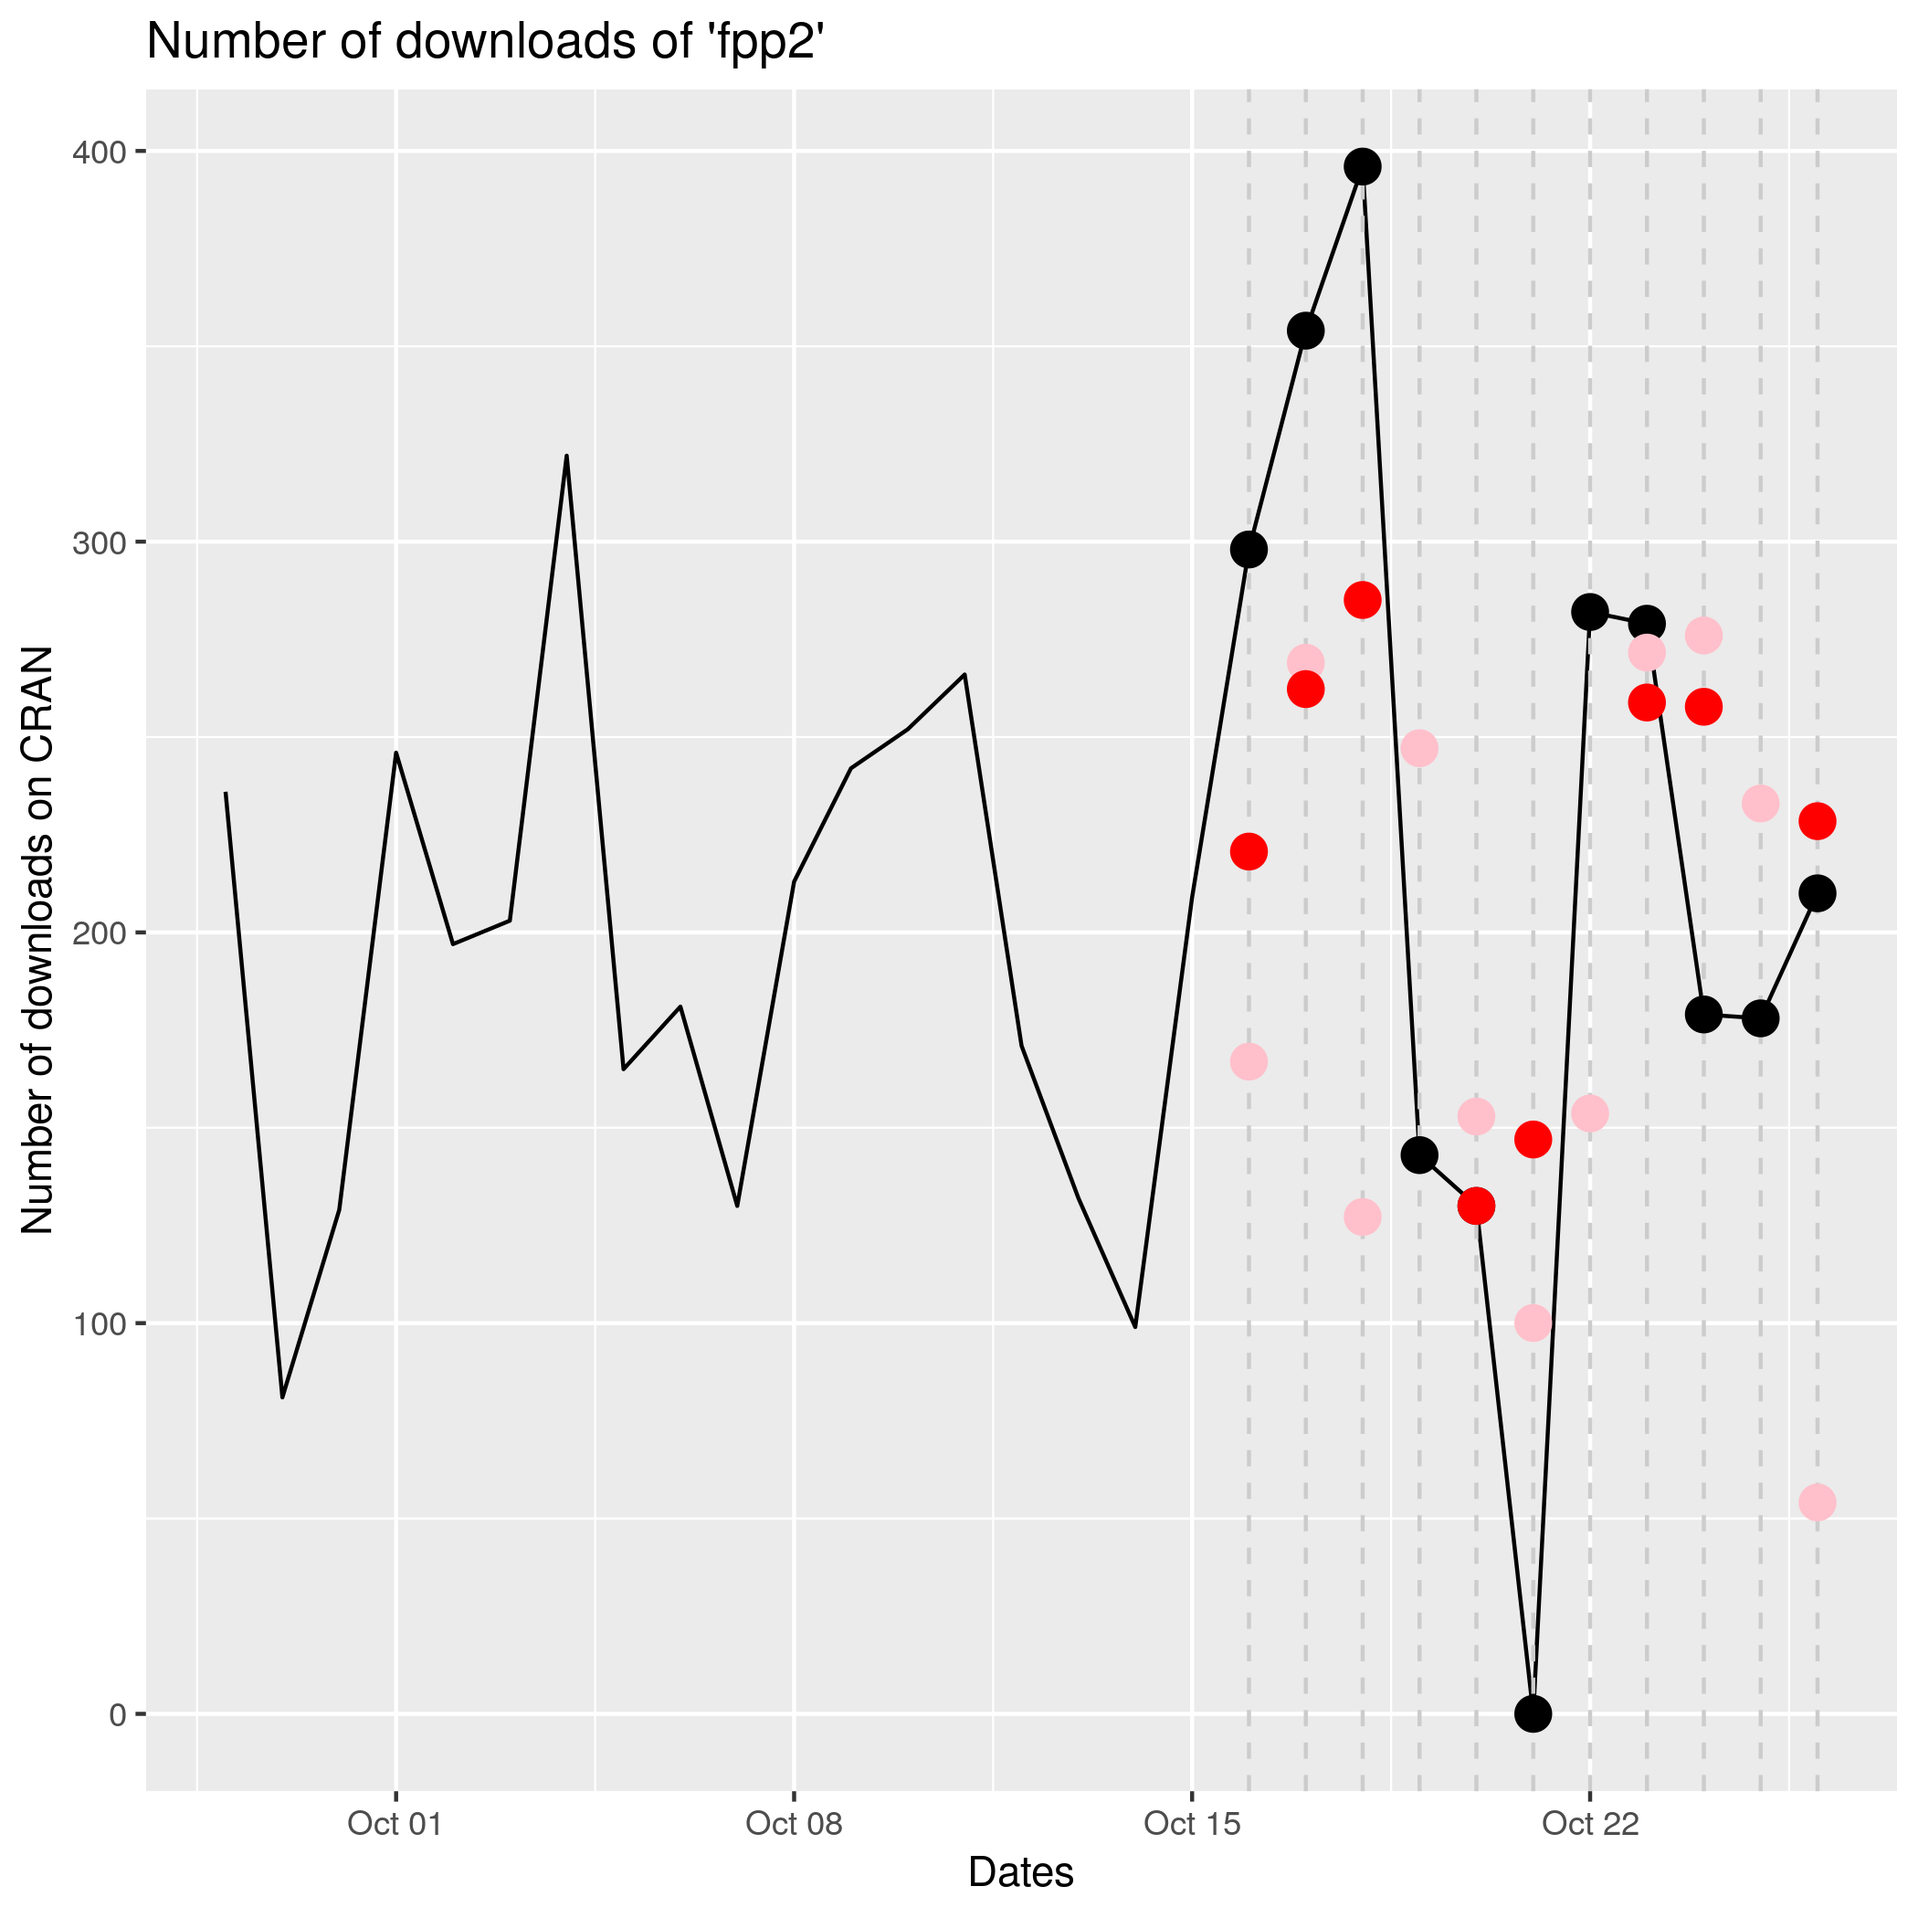
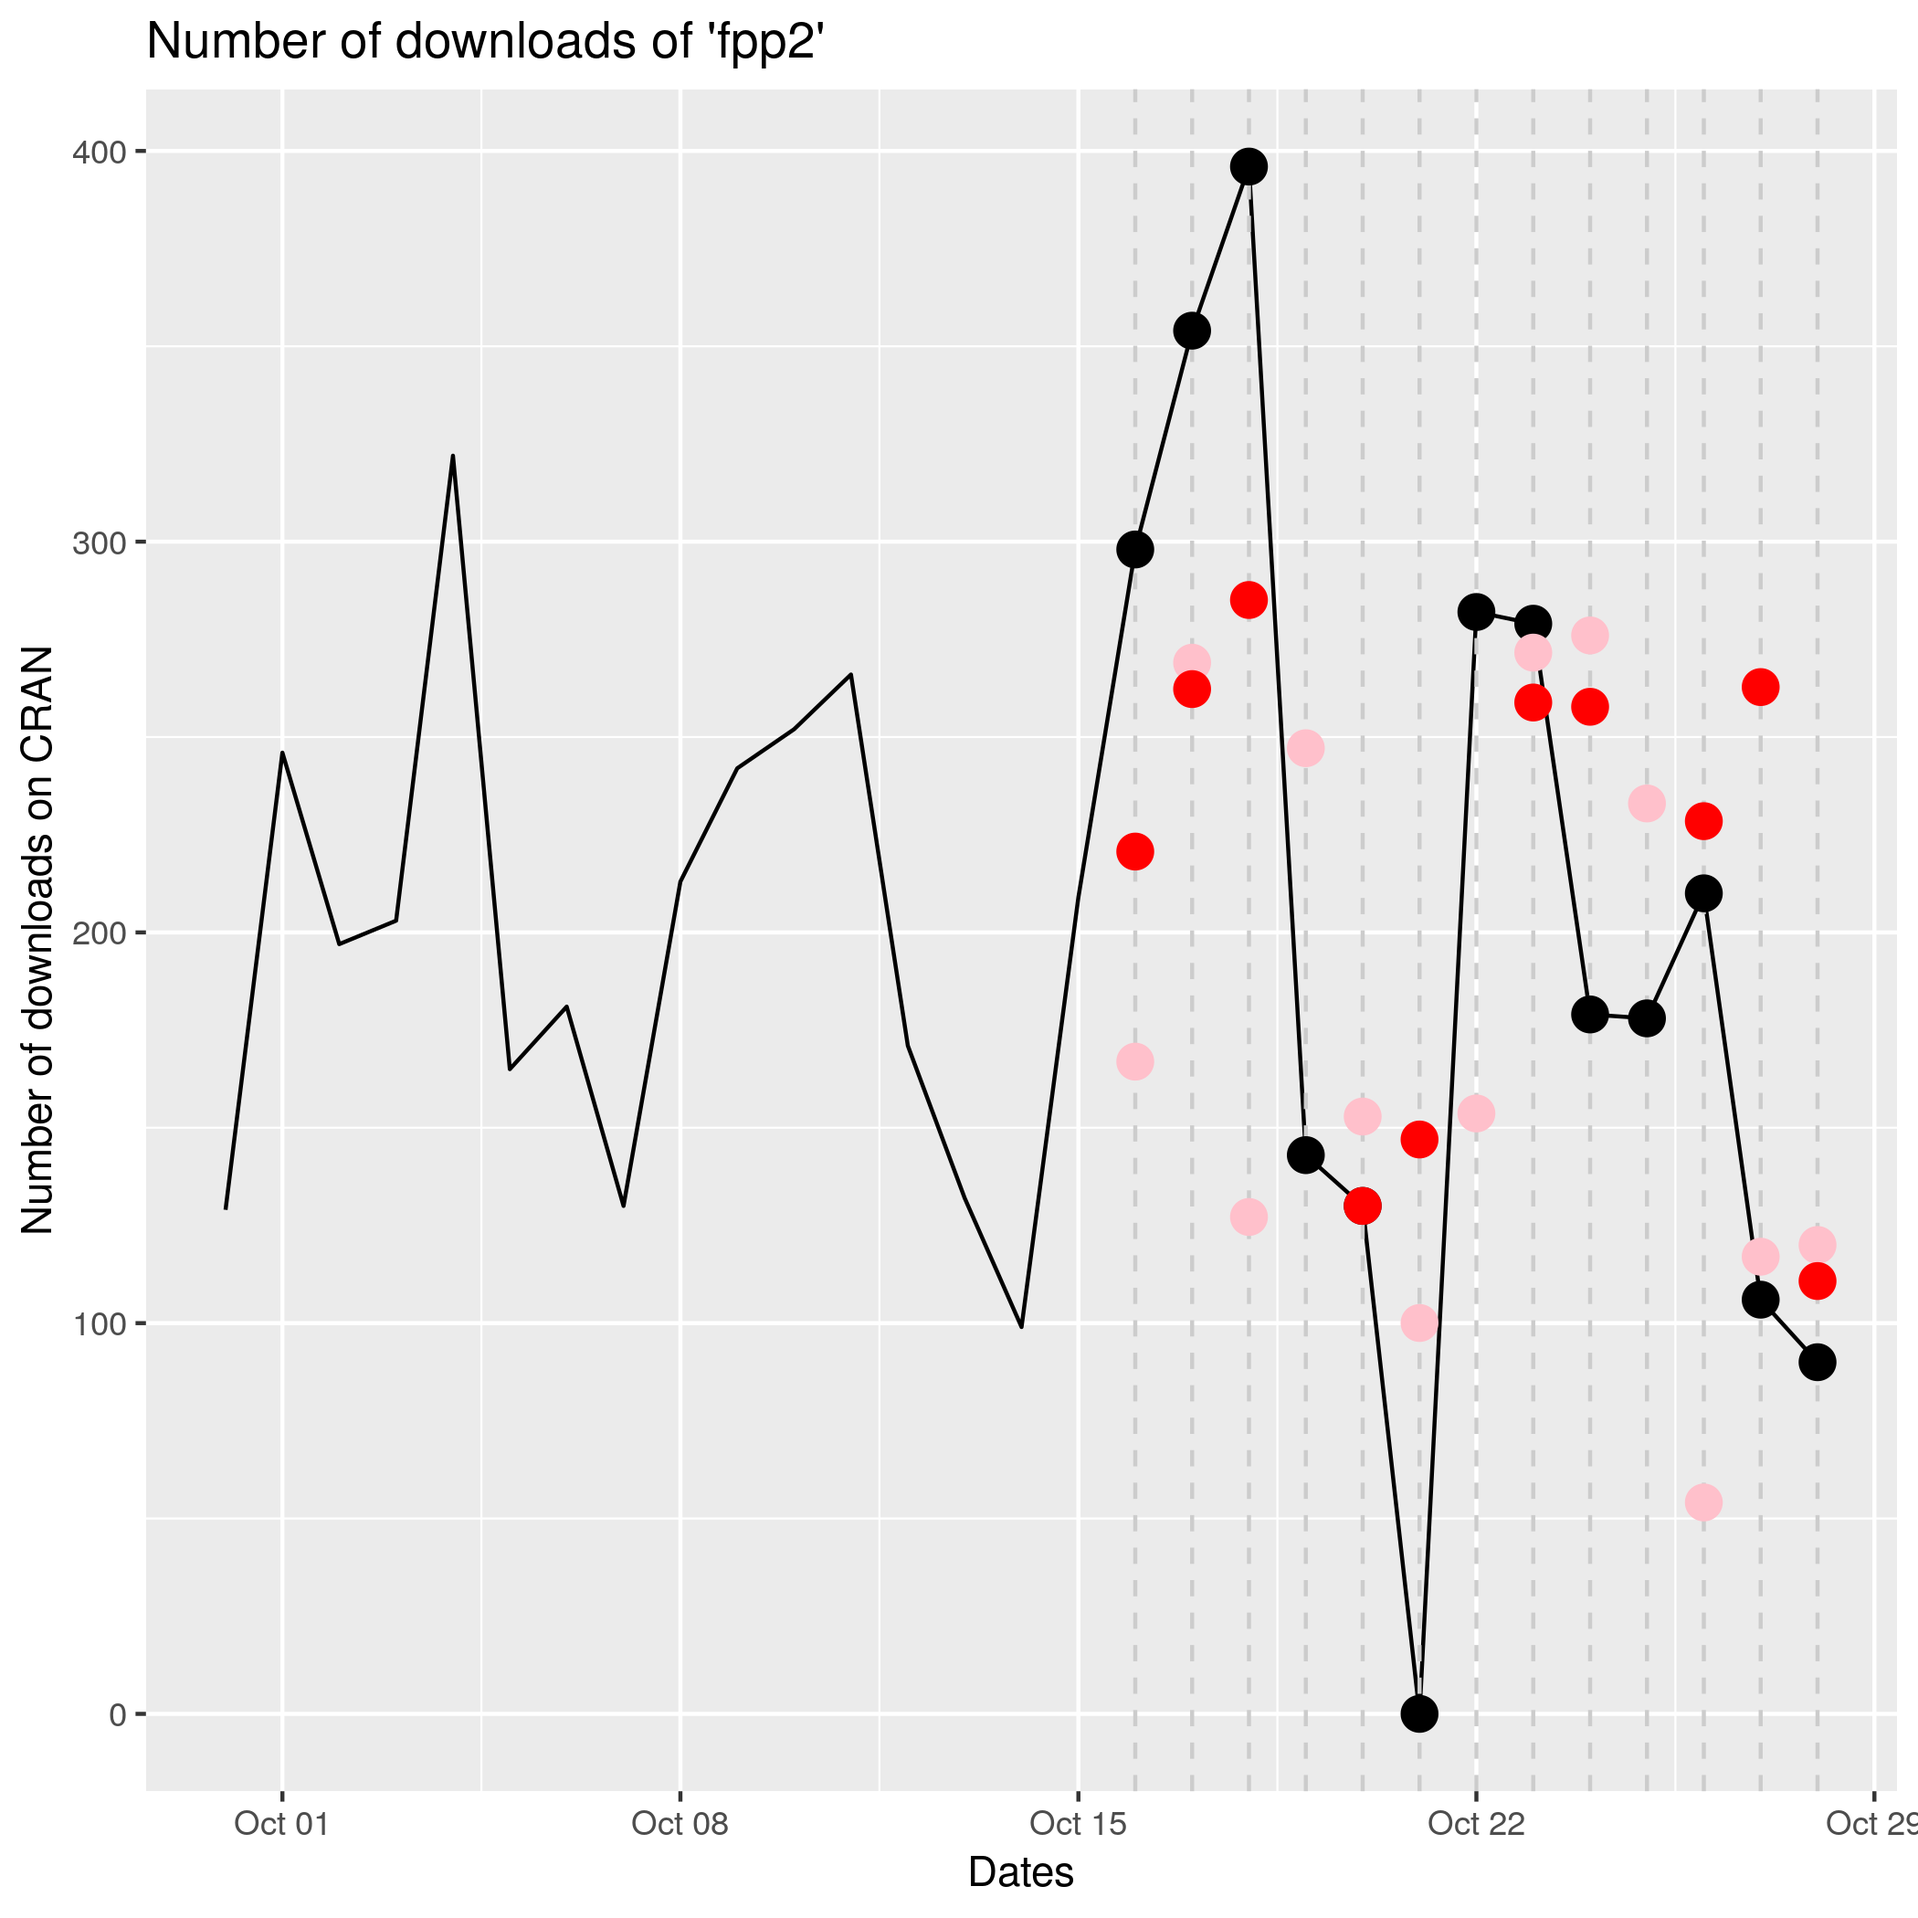
updated forecast

diff --git a/content/case-studies/r-package.md b/content/case-studies/r-package.md
@@ -86,9 +86,9 @@ ggplot(fpp2, aes(x = date, y = count)) +
 You can notice peeks and zeros appearing. These questions will be addressed in a future
 lecture.
 
-### results (update 29.10.2018)
+### results (update 30.10.2018)
 
-<img src="https://raw.githubusercontent.com/SMAC-Group/fc2018_website/master/data/fpp2_2.png" alt="fpp22" width="400px"/> 
+<img src="https://raw.githubusercontent.com/SMAC-Group/fc2018_website/master/data/fpp2_3.png" alt="fpp22" width="400px"/> 
 
 Date | <span style="color:red">Max</span> | <span style="color:pink">Lumia</span>
 --- | --- | ---
@@ -100,8 +100,9 @@ Date | <span style="color:red">Max</span> | <span style="color:pink">Lumia</span
 21.10 | 147 | 100   
 22.10 | $\emptyset$ | 128.33   
 23.10 | 20.17 | 7.40  
-24.10 | 78.74 | 97.00 
-25.10 | $\emptyset$ | 55.00 
+24.10 | 78.74 | 97
+25.10 | $\emptyset$ | 55 
 26.10 | 18.47 | 155.89
-27.10 | 156.78 | 11.00
+27.10 | 156.78 | 11
+28.10 | 20.77 | 30
 Table: Absolute difference between forecast and realization.
